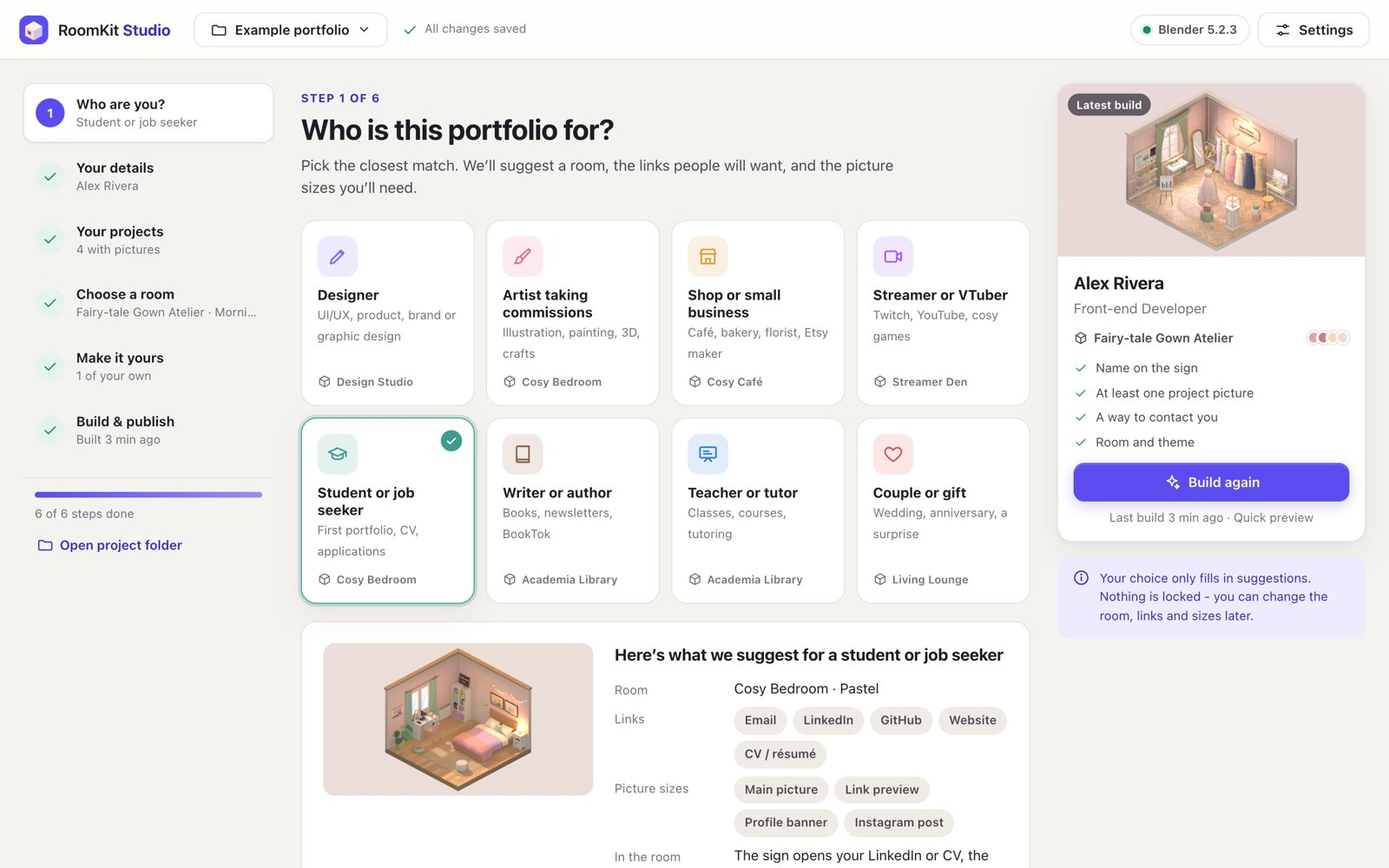
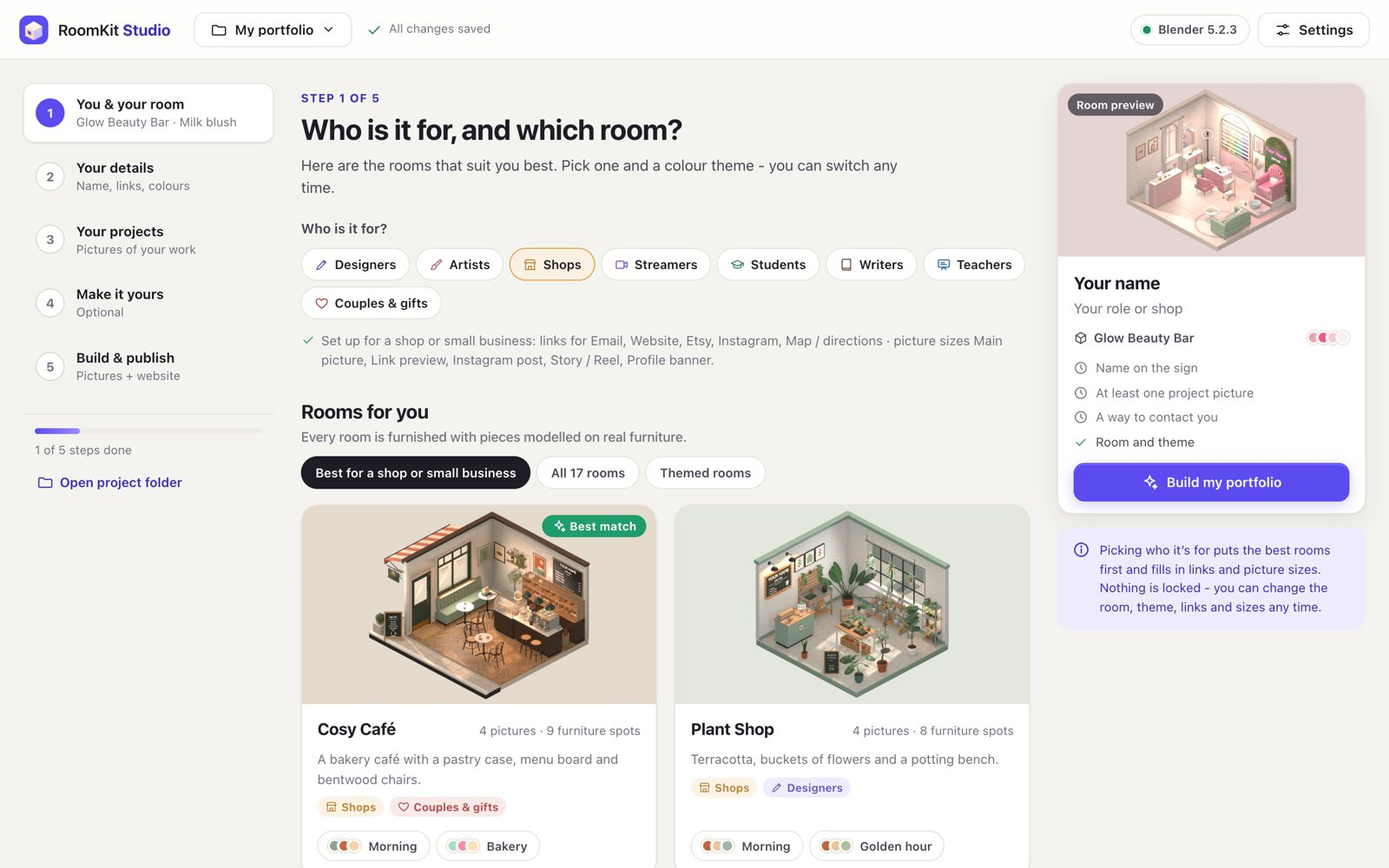
Studio: choose the room in step 1 with who it's for (5 steps instead of 6)
Picking who the portfolio is for now shows the rooms that suit them right
below, with the best match marked, so the room is no longer chosen twice.
Old saved links to the removed room step open step 1.

diff --git a/tools/studio/app.js b/tools/studio/app.js
@@ -12,10 +12,9 @@
   const MODEL_EXT = ['glb', 'gltf', 'obj', 'fbx', 'stl'];
 
   const STEPS = [
-    { id: 'persona', title: 'Who are you?', icon: 'user' },
+    { id: 'persona', title: 'You & your room', icon: 'user' },
     { id: 'profile', title: 'Your details', icon: 'idcard' },
     { id: 'projects', title: 'Your projects', icon: 'image' },
-    { id: 'room', title: 'Choose a room', icon: 'cube' },
     { id: 'furnish', title: 'Make it yours', icon: 'sofa' },
     { id: 'build', title: 'Build & publish', icon: 'sparkles' },
   ];
@@ -203,13 +202,16 @@
   function stepState(id) {
     const p = S.profile, st = S.studio;
     switch (id) {
-      case 'persona': return st.persona ? { done: true, sub: persona()?.label || '' } : { done: false, sub: 'Pick what fits you' };
+      case 'persona': {
+        const r = room();
+        if (r) return { done: true, sub: `${r.name} · ${theme(r)?.label || ''}` };
+        return { done: false, sub: st.persona ? `${persona()?.label || ''} · pick a room` : 'Who it’s for and your room' };
+      }
       case 'profile': return p.name ? { done: nameCheck().level !== 'error', sub: p.name } : { done: false, sub: 'Name, links, colours' };
       case 'projects': {
         const n = (p.projects || []).filter((x) => x.image).length;
         return { done: n > 0, sub: n ? `${n} with pictures` : 'Pictures of your work' };
       }
-      case 'room': { const r = room(); return r ? { done: true, sub: `${r.name} · ${theme(r)?.label || ''}` } : { done: false, sub: 'Pick your room' }; }
       case 'furnish': { const n = (st.swaps || []).length; return { done: n > 0, optional: true, sub: n ? `${n} of your own` : 'Optional' }; }
       case 'build': return st.last_build ? { done: true, sub: `Built ${ago(st.last_build.when)}` } : { done: false, sub: 'Pictures + website' };
       default: return { done: false, sub: '' };
@@ -297,7 +299,7 @@
       S.rooms = r.rooms || [];
       S.roomsScanning = r.scanning;
       if (before !== JSON.stringify(S.rooms.map((x) => [x.id, x.source, x.thumb])) && S.pid) {
-        if (['room', 'furnish', 'persona'].includes(S.step)) renderMain();
+        if (['furnish', 'persona'].includes(S.step)) renderMain();
         renderSide();
       }
       if (r.scanning) setTimeout(pollRooms, 2500);
@@ -315,7 +317,8 @@
     if (!S.studio.room && S.profile.room) S.studio.room = S.profile.room;
     if (!S.studio.theme && S.profile.theme) S.studio.theme = S.profile.theme;
     S.outputs = data.outputs || {};
-    const want = step || S.studio.step;
+    let want = step || S.studio.step;
+    if (want === 'room') want = 'persona';                          // the old separate room step now lives in step 1
     S.step = STEPS.some((s) => s.id === want) ? want : 'persona';
     S.job = null;
     safeStorage('set', 'roomkit.project', pid);
@@ -485,10 +488,9 @@
   function tipFor(step) {
     const per = persona();
     return {
-      persona: 'Your choice only fills in suggestions. Nothing is locked - you can change the room, links and sizes later.',
+      persona: 'Picking who it’s for puts the best rooms first and fills in links and picture sizes. Nothing is locked - you can change the room, theme, links and sizes any time.',
       profile: 'Keep your name short so it reads well on the sign. Visitors can click the sign, mug and shelves to reach your links.',
       projects: 'Wide pictures (16:10, like a laptop screen) look best. The first project goes on the main screen.',
-      room: per ? per.objects : 'Click a colour theme to see the room in different colours.',
       furnish: 'A photo of your own chair, plant or pet makes the room feel like yours. Photos taken straight on, on a plain background, work best.',
       build: 'Start with a Quick preview to check everything, then make the Final quality version to share.',
     }[step] || '';
@@ -519,6 +521,7 @@
   window.addEventListener('hashchange', onHashChange);           // also fires for Back / Forward between steps
 
   function go(step, fromHistory) {
+    if (step === 'room') step = 'persona';
     if (!STEPS.some((s) => s.id === step)) return;
     S.step = step;
     S.studio.step = step;
@@ -542,51 +545,48 @@
   function renderMain() {
     const el = $('#main');
     if (!el) return;
-    const fn = { persona: viewPersona, profile: viewProfile, projects: viewProjects, room: viewRoom, furnish: viewFurnish, build: viewBuild }[S.step];
+    const fn = { persona: viewPersona, profile: viewProfile, projects: viewProjects, furnish: viewFurnish, build: viewBuild }[S.step];
     fn(el);
     bindNav(el);
   }
+
+  const stepNo = (id) => `Step ${STEPS.findIndex((s) => s.id === id) + 1} of ${STEPS.length}`;
 
   function header(kicker, title, lead) {
     return `<header class="view-head"><p class="kicker">${esc(kicker)}</p><h1>${esc(title)}</h1>${lead ? `<p class="lead">${lead}</p>` : ''}</header>`;
   }
 
-  // ------------------------------------------------------------------ step 1: persona
+  // ------------------------------------------------------------------ step 1: who it's for + room
+  // One step: pick who the portfolio is for, and the rooms that suit them appear right below.
   function viewPersona(el) {
     const cur = S.studio.persona;
-    const cards = S.personas.map((p) => {
-      const sug = firstRoom(p);
-      return `<button class="persona ${cur === p.id ? 'selected' : ''}" data-persona="${p.id}" aria-pressed="${cur === p.id}" style="--tint:${esc(p.tint)}">
-        <span class="p-icon">${icon(p.icon)}</span>
-        <span class="p-text"><strong>${esc(p.label)}</strong><small>${esc(p.blurb)}</small></span>
-        ${sug ? `<span class="p-room">${icon('cube', 'sm')}${esc(sug.room.name)}</span>` : ''}
-        <span class="p-check">${icon('check')}</span>
-      </button>`;
-    }).join('');
     const per = persona();
-    let plan = '';
-    if (per) {
-      const sug = firstRoom(per);
-      const img = sug ? themeImage(sug.theme) : '';
-      plan = `<section class="card plan">
-        ${img ? `<img class="plan-img" src="${esc(img)}" alt="">` : ''}
-        <div class="plan-body">
-          <h2>Here’s what we suggest for a ${esc(per.label.toLowerCase())}</h2>
-          <dl>
-            <dt>Room</dt><dd>${sug ? `${esc(sug.room.name)} · ${esc(sug.theme ? sug.theme.label : '')}` : 'Any room'}</dd>
-            <dt>Links</dt><dd class="chips">${per.links.map((l) => `<span class="chip">${esc((S.linkTypes[l] || {}).label || l)}</span>`).join('')}</dd>
-            <dt>Picture sizes</dt><dd class="chips">${per.exports.map((x) => `<span class="chip">${esc((S.exportsInfo[x] || {}).label || x)}</span>`).join('')}</dd>
-            <dt>In the room</dt><dd>${esc(per.objects)}</dd>
-          </dl>
-          <p class="muted small">${S.studio.touched.room ? 'You already chose a room, so we’ll keep it.' : 'You can change all of this in the next steps.'}</p>
-        </div>
-      </section>`;
-    }
-    el.innerHTML = header('Step 1 of 6', 'Who is this portfolio for?', 'Pick the closest match. We’ll suggest a room, the links people will want, and the picture sizes you’ll need.')
-      + `<div class="persona-grid" role="list">${cards}</div>${plan}` + navButtons('', 'profile', per ? 'Use these suggestions' : 'Skip for now');
-    $$('[data-persona]', el).forEach((b) => b.onclick = () => { applyPersona(b.dataset.persona); viewPersona(el); bindNav(el); });
-    const next = $('[data-go="profile"]', el);
-    if (next) next.onclick = () => go('profile');
+    const who = per
+      ? `<div class="who-row"><span class="who-label">Who is it for?</span><div class="persona-chips" role="group" aria-label="Who is this portfolio for">${S.personas.map((p) =>
+          `<button class="pchip ${cur === p.id ? 'on' : ''}" data-persona="${p.id}" aria-pressed="${cur === p.id}" style="--tint:${esc(p.tint)}">${icon(p.icon, 'sm')}${esc(shortLabel(p))}</button>`).join('')}</div></div>
+        <p class="persona-extras">${icon('check', 'sm')}Set up for a ${esc(per.label.toLowerCase())}: links for ${per.links.map((l) => esc((S.linkTypes[l] || {}).label || l)).join(', ')} · picture sizes ${per.exports.map((x) => esc((S.exportsInfo[x] || {}).label || x)).join(', ')}.</p>`
+      : `<div class="persona-grid" role="list">${S.personas.map((p) => {
+          const sug = firstRoom(p);
+          return `<button class="persona" data-persona="${p.id}" aria-pressed="false" style="--tint:${esc(p.tint)}">
+            <span class="p-icon">${icon(p.icon)}</span>
+            <span class="p-text"><strong>${esc(p.label)}</strong><small>${esc(p.blurb)}</small></span>
+            ${sug ? `<span class="p-room">${icon('cube', 'sm')}${esc(sug.room.name)}</span>` : ''}
+            <span class="p-check">${icon('check')}</span>
+          </button>`;
+        }).join('')}</div>`;
+    el.innerHTML = header(stepNo('persona'), 'Who is it for, and which room?',
+      per ? 'Here are the rooms that suit you best. Pick one and a colour theme - you can switch any time.'
+          : 'Pick the closest match and we’ll show the rooms that suit you best, with the right links and picture sizes. Or scroll down and choose any room.')
+      + who + `<section id="room-pick" class="room-pick" aria-label="Choose your room"></section>`
+      + navButtons('', 'profile', room() ? 'Continue' : 'Skip for now');
+    $$('[data-persona]', el).forEach((b) => b.onclick = () => {
+      applyPersona(b.dataset.persona); S.roomFilter = 'for-you';
+      viewPersona(el); bindNav(el); renderSide();
+      const box = $('#room-pick', el);
+      if (box && !per) box.scrollIntoView({ behavior: matchMedia('(prefers-reduced-motion: reduce)').matches ? 'auto' : 'smooth', block: 'start' });
+    });
+    if (!per && S.roomFilter === 'for-you') S.roomFilter = 'all';
+    renderRoomPicker($('#room-pick', el), el);
   }
 
   function firstRoom(p) {
@@ -619,7 +619,7 @@
     const t = theme();
     const brand = S.profile.brand_color || S.studio.brand_color_suggest || (t && t.colors.accent_1) || '#5B4CF0';
     const roomColors = t ? ['main', 'accent_1', 'accent_2', 'accent_3'].map((k) => t.colors[k]).filter(Boolean) : [];
-    el.innerHTML = header('Step 2 of 6', 'Your details', 'This goes on the sign in your room and at the top of your website.') + `
+    el.innerHTML = header(stepNo('profile'), 'Your details', 'This goes on the sign in your room and at the top of your website.') + `
       <section class="card form-card">
         <h2 class="card-title">${icon('idcard')}The basics</h2>
         <div class="grid2">
@@ -800,7 +800,7 @@
     const per = persona();
     const r = room();
     const spots = r && r.hooks ? r.hooks.pictures : 0;
-    el.innerHTML = header('Step 3 of 6', 'Your projects', 'Add pictures of your work. They appear on the screens, frames and posters in your room, and as cards on your website.') + `
+    el.innerHTML = header(stepNo('projects'), 'Your projects', 'Add pictures of your work. They appear on the screens, frames and posters in your room, and as cards on your website.') + `
       <div class="proj-hint">${icon('info')}<span>${spots ? `The ${esc(r.name)} has <b>${spots} picture spots</b>. ` : ''}Add 3–6 projects for the best look. Drag the handle to change the order - the first one goes on the main screen.</span></div>
       <ol class="projects" id="projects"></ol>
       <div class="dropzone big" id="proj-drop" tabindex="0" role="button" aria-label="Add projects: drop pictures here or press to choose files">
@@ -809,7 +809,7 @@
       </div>
       <div class="inline-actions"><button class="btn ghost" id="add-empty">${icon('plus')}Add a project without a picture</button></div>
       ${per ? `<section class="card ideas"><h2 class="card-title">${icon('sparkles')}Not sure what to show?</h2><p class="muted">Ideas for a ${esc(per.label.toLowerCase())}:</p><ul>${per.project_ideas.map((x) => `<li>${esc(x)}</li>`).join('')}</ul></section>` : ''}
-      ${navButtons('profile', 'room')}`;
+      ${navButtons('profile', 'furnish')}`;
     renderProjectList();
     const drop = $('#proj-drop', el), files = $('#proj-files', el);
     drop.onclick = () => files.click();
@@ -941,10 +941,11 @@
     const btn = $(`.proj-card[data-i="${to}"] .p-title`); if (btn) btn.focus();
   }
 
-  // ------------------------------------------------------------------ step 4: room gallery
-  function viewRoom(el) {
+  // ------------------------------------------------------------------ room gallery (part of step 1)
+  function renderRoomPicker(box, page) {
+    if (!box) return;
     const per = persona();
-    const filters = [['for-you', per ? `For a ${per.label.toLowerCase()}` : 'Suggested'], ['all', 'All rooms'], ['themed', 'Themed rooms']];
+    const filters = (per ? [['for-you', `Best for a ${per.label.toLowerCase()}`]] : []).concat([['all', `All ${S.rooms.length} rooms`], ['themed', 'Themed rooms']]);
     let list = S.rooms.slice();
     if (S.roomFilter === 'themed') list = list.filter((r) => r.themed);
     if (S.roomFilter === 'for-you') {
@@ -956,6 +957,7 @@
     }
     const cur = S.studio.room;
     if (cur && !list.some((r) => r.id === cur) && room(cur)) list.unshift(room(cur));
+    const best = per && S.roomFilter === 'for-you' ? (firstRoom(per) || {}).room : null;
     const cards = list.map((r) => {
       const sel = r.id === cur;
       const t = sel ? theme(r) : (r.themes.find((x) => x.default) || r.themes[0]);
@@ -964,7 +966,7 @@
         <button class="rc-pick" data-pick="${r.id}" aria-pressed="${sel}" aria-label="Choose the ${esc(r.name)}">
           <span class="rc-img" style="${t ? `background:linear-gradient(135deg, ${esc(t.colors.wall || '#eee')}, ${esc(t.colors.floor || '#ddd')})` : ''}">
             ${img ? `<img src="${esc(img)}" alt="" loading="lazy">` : `<span class="rc-soon">${icon('cube')}Preview coming soon</span>`}
-            ${r.themed ? '<span class="badge new">New · Themed</span>' : ''}
+            ${best && best.id === r.id && !sel ? `<span class="badge best">${icon('sparkles', 'sm')}Best match</span>` : r.themed ? '<span class="badge new">New · Themed</span>' : ''}
             ${sel ? `<span class="badge chosen">${icon('check', 'sm')}Your room</span>` : ''}
           </span>
         </button>
@@ -980,14 +982,14 @@
       </article>`;
     }).join('');
     const r = room();
-    el.innerHTML = header('Step 4 of 6', 'Choose your room', 'Every room is furnished with pieces modelled on real furniture. Pick one, then a colour theme.') + `
+    box.innerHTML = `<h2 class="pick-h">${per ? 'Rooms for you' : 'Choose your room'}<small>Every room is furnished with pieces modelled on real furniture.</small></h2>
       <div class="filters" role="tablist">${filters.map(([id, label]) => `<button role="tab" class="filter ${S.roomFilter === id ? 'on' : ''}" aria-selected="${S.roomFilter === id}" data-filter="${id}">${esc(label)}</button>`).join('')}
         ${S.roomsScanning ? `<span class="scan">${icon('refresh', 'sm spin')}Checking rooms…</span>` : ''}</div>
       <div class="room-grid">${cards || '<p class="muted">No rooms found in templates/.</p>'}</div>
       ${r ? `<section class="card seed-card"><div><h2 class="card-title">${icon('dice')}Shuffle the little things</h2><p class="muted">Books, bottles, plants and props are arranged differently for each number, so your room won’t look like anyone else’s.</p></div>
         <div class="seed-ctl"><button class="icon-btn" id="seed-dn" aria-label="Previous arrangement">${icon('left')}</button><output id="seed-val" aria-live="polite">Arrangement #${esc(S.studio.seed || 1)}</output><button class="icon-btn" id="seed-up" aria-label="Next arrangement">${icon('right')}</button><button class="btn ghost" id="seed-rand">${icon('dice')}Surprise me</button></div></section>` : ''}
-      ${navButtons('projects', 'furnish')}`;
-    $$('[data-filter]', el).forEach((b) => b.onclick = () => { S.roomFilter = b.dataset.filter; viewRoom(el); bindNav(el); });
+`;
+    $$('[data-filter]', box).forEach((b) => b.onclick = () => { S.roomFilter = b.dataset.filter; renderRoomPicker(box, page); });
     const pick = (rid, tid) => {
       const rr = room(rid);
       const changedRoom = S.studio.room !== rid;
@@ -999,10 +1001,12 @@
         if (keep.length !== S.studio.swaps.length) toast(`${S.studio.swaps.length - keep.length} furniture swap(s) don’t fit this room and were set aside.`, 'info');
         S.studio.swaps = keep;
       }
-      changed(); viewRoom(el); bindNav(el);
+      changed(); renderRoomPicker(box, page); renderSide();
+      const next = page && $('.step-nav [data-go="profile"]', page);
+      if (next) next.innerHTML = `Continue${icon('right')}`;
     };
-    $$('[data-pick]', el).forEach((b) => b.onclick = () => pick(b.dataset.pick, S.studio.room === b.dataset.pick ? S.studio.theme : ''));
-    $$('[data-theme]', el).forEach((b) => b.onclick = () => pick(b.dataset.room, b.dataset.theme));
+    $$('[data-pick]', box).forEach((b) => b.onclick = () => pick(b.dataset.pick, S.studio.room === b.dataset.pick ? S.studio.theme : ''));
+    $$('[data-theme]', box).forEach((b) => b.onclick = () => pick(b.dataset.room, b.dataset.theme));
     const setSeed = (n) => { S.studio.seed = Math.max(1, Math.min(9999, n)); $('#seed-val').textContent = `Arrangement #${S.studio.seed}`; changed(); };
     if (r) {
       $('#seed-dn').onclick = () => setSeed((S.studio.seed || 1) - 1);
@@ -1016,14 +1020,14 @@
   function viewFurnish(el) {
     const r = room();
     if (!r) {
-      el.innerHTML = header('Step 5 of 6', 'Make it yours', '') + `<div class="empty">${icon('cube')}<h2>Choose a room first</h2><p>Then you can swap its furniture for your own.</p><button class="btn primary" data-go="room">Choose a room</button></div>`;
+      el.innerHTML = header(stepNo('furnish'), 'Make it yours', '') + `<div class="empty">${icon('cube')}<h2>Choose a room first</h2><p>Then you can swap its furniture for your own.</p><button class="btn primary" data-go="persona">Choose a room</button></div>`;
       return;
     }
     const keys = S.status.keys || {};
     const anyKey = keys.meshy?.set || keys.fal?.set || keys.hf?.set;
     const feats = S.status.features || {};
     const t = theme(r);
-    el.innerHTML = header('Step 5 of 6', 'Make it yours', 'Swap any piece of furniture for your own - drop a photo of your chair, plant or pet, or a 3D model. This step is optional.') + `
+    el.innerHTML = header(stepNo('furnish'), 'Make it yours', 'Swap any piece of furniture for your own - drop a photo of your chair, plant or pet, or a 3D model. This step is optional.') + `
       <div class="furnish-top card">
         ${themeImage(t) ? `<img src="${esc(themeImage(t))}" alt="">` : ''}
         <div>
@@ -1038,7 +1042,7 @@
         </div>
       </div>
       <ul class="slots" id="slots">${r.slots.map((s) => slotRow(s)).join('')}</ul>
-      ${navButtons('room', 'build')}`;
+      ${navButtons('projects', 'build')}`;
     $('#keys-btn', el).onclick = () => openSettings('keys');
     bindSlots(el, r);
   }
@@ -1186,7 +1190,7 @@
     if (S.job && (S.job.state === 'running' || S.job.state === 'error' || S.job.state === 'cancelled')) return viewJob(el);
     if (b.state !== 'ok') {
       const prev = S.studio.last_build && S.outputs.index ? resultsHtml(S.studio.last_build) : '';
-      el.innerHTML = header('Step 6 of 6', 'Build & publish', '') + blenderCard(b) + prev + navButtons('furnish', '');
+      el.innerHTML = header(stepNo('build'), 'Build & publish', '') + blenderCard(b) + prev + navButtons('furnish', '');
       bindBlenderCard(el);
       if (prev) bindResults(el);
       return;
@@ -1204,7 +1208,7 @@
         <span class="exp-box" style="aspect-ratio:${x.size.replace(/\s/g, '').replace('×', '/')}"></span>
         <span class="exp-text"><strong>${esc(x.label)}</strong><small>${esc(x.size)}</small><small class="use">${!supported ? '<span class="soon">Next kit update</span>' : esc(x.use)}</small></span></label>`;
     }).join('');
-    el.innerHTML = header('Step 6 of 6', 'Build & publish', 'RoomKit opens Blender in the background, puts you in the room and takes the pictures. You can keep working while it runs.') + `
+    el.innerHTML = header(stepNo('build'), 'Build & publish', 'RoomKit opens Blender in the background, puts you in the room and takes the pictures. You can keep working while it runs.') + `
       ${lb ? resultsHtml(lb) : ''}
       <section class="card build-card" id="build-card">
         <h2 class="card-title">${icon('sparkles')}${lb ? 'Build again' : 'Build settings'}</h2>
@@ -1244,7 +1248,7 @@
     const nc = nameCheck();
     if (nc.level === 'error') out.push({ level: 'error', msg: nc.msg, step: 'profile' });
     else if (nc.level === 'warn') out.push({ level: 'warn', msg: 'Your name will be made a little smaller to fit the sign.', step: 'profile' });
-    if (!room()) out.push({ level: 'error', msg: 'Choose a room first.', step: 'room' });
+    if (!room()) out.push({ level: 'error', msg: 'Choose a room first.', step: 'persona' });
     const pics = (p.projects || []).filter((x) => x.image).length;
     if (!pics) out.push({ level: 'warn', msg: 'No project pictures yet - the room will show its own sample pictures.', step: 'projects' });
     if (!Object.keys(p.links || {}).length) out.push({ level: 'warn', msg: 'No links yet, so visitors can’t reach you.', step: 'profile' });
@@ -1325,7 +1329,7 @@
     const j = S.job;
     if (j.state === 'error' || j.state === 'cancelled') {
       const err = j.error || { title: 'Build cancelled', message: 'Nothing was changed. Your previous results are still there.', hint: '' };
-      el.innerHTML = header('Step 6 of 6', 'Build & publish', '') + `
+      el.innerHTML = header(stepNo('build'), 'Build & publish', '') + `
         <section class="card job-card ${j.state}">
           <div class="err-head">${icon(j.state === 'error' ? 'alert' : 'info')}<div><h2>${esc(err.title)}</h2><p>${esc(err.message)}</p>${err.hint ? `<p class="hint">${esc(err.hint)}</p>` : ''}</div></div>
           ${jobSteps(j)}
@@ -1337,7 +1341,7 @@
       bindLogToggle();
       return;
     }
-    el.innerHTML = header('Step 6 of 6', 'Building your portfolio', 'You can keep editing other steps while this runs. We’ll play a little sound when it’s done.') + `
+    el.innerHTML = header(stepNo('build'), 'Building your portfolio', 'You can keep editing other steps while this runs. We’ll play a little sound when it’s done.') + `
       <section class="card job-card" aria-busy="true">
         <div class="job-top"><div><p class="big-pct" id="pct">0%</p><p class="muted" id="eta">Starting Blender…</p></div>
           <button class="btn ghost" id="cancel">${icon('stop')}Cancel</button></div>

diff --git a/tools/studio/style.css b/tools/studio/style.css
@@ -335,6 +335,21 @@ input::placeholder, textarea::placeholder { color: color-mix(in srgb, var(--mute
 .rc-soon .ic { width: 32px; height: 32px; }
 .badge.new { left: auto; right: 10px; top: 10px; background: linear-gradient(90deg, #E86A92, #9B5CF6); }
 .badge.chosen { top: 10px; left: 10px; background: var(--primary); font-size: 12px; padding: 4px 10px; }
+.badge.best { left: auto; right: 10px; top: 10px; background: #1F9D6B; font-size: 12px; padding: 4px 10px; }
+
+/* step 1: who it's for + room */
+.who-row { display: flex; align-items: center; gap: 12px; flex-wrap: wrap; }
+.who-label { font: 650 14px var(--font); color: var(--ink-2); }
+.persona-chips { display: flex; flex-wrap: wrap; gap: 6px; }
+.pchip { display: inline-flex; align-items: center; gap: 6px; height: 34px; padding: 0 13px; border-radius: 99px; border: 1.5px solid var(--line); background: var(--surface); color: var(--ink); font: 600 13px var(--font); cursor: pointer; transition: border-color .15s, background .15s; }
+.pchip .ic { width: 15px; height: 15px; color: color-mix(in srgb, var(--tint) 80%, var(--ink)); }
+.pchip:hover { border-color: color-mix(in srgb, var(--tint) 55%, var(--line)); }
+.pchip.on { border-color: var(--tint); background: color-mix(in srgb, var(--tint) 14%, var(--surface)); }
+.persona-extras { display: flex; gap: 6px; align-items: flex-start; margin: 12px 0 0; color: var(--muted); font-size: 13.5px; }
+.persona-extras .ic { flex: none; margin-top: 2px; color: #1F9D6B; }
+.room-pick { margin-top: 28px; scroll-margin-top: 80px; }
+.pick-h { display: flex; flex-direction: column; gap: 2px; font-size: 20px; margin: 0 0 12px; }
+.pick-h small { font: 500 14px var(--font); color: var(--muted); }
 .rc-body { padding: 14px 16px 16px; display: flex; flex-direction: column; gap: 8px; flex: 1; }
 .rc-head { display: flex; justify-content: space-between; align-items: baseline; gap: 8px; }
 .rc-head h3 { font-size: 17px; }

diff --git a/STUDIO.md b/STUDIO.md
@@ -18,17 +18,16 @@ RoomKit Studio is a friendly builder that opens in your web browser. You fill in
 
 Your browser opens RoomKit Studio. Keep the small black window open while you work. Close that window when you're finished.
 
-## Make your portfolio in six steps
-1. **Who are you?** Pick the closest match: designer, artist, shop, streamer, student, writer, teacher, or couple/gift. Studio suggests a room, the right links and picture sizes. Nothing is locked.
+## Make your portfolio in five steps
+1. **You & your room.** Pick who it's for: designer, artist, shop, streamer, student, writer, teacher, or couple/gift. The rooms that suit you appear right below, with the best match marked, and Studio fills in the right links and picture sizes. Click a room, then a colour theme. Prefer to browse? Open **All 17 rooms** or **Themed rooms**. **Shuffle the little things** rearranges books and props, so your room looks like no one else's. Nothing is locked.
 2. **Your details.** Add your name, what you do, one line about you, and your links (email, website, Behance, Instagram, Etsy, Ko-fi, Twitch and more). Studio tells you straight away if your name is too long for the room's sign. You can turn on your own brand colour if you like.
 3. **Your projects.** Drag pictures of your work onto the page, then give each one a title, a sentence and a link. Drag the handle to change the order. The first project goes on the main screen. Wide pictures (16:10) look best.
-4. **Choose a room.** Browse every room and click a colour theme to see it. **Shuffle the little things** rearranges books and props, so your room looks like no one else's.
-5. **Make it yours** (optional). Swap any piece of furniture for your own. Drop in a photo of your chair, plant or pet, or a 3D model (.glb, .obj, .fbx or .stl). For a photo, choose how Studio builds it:
+4. **Make it yours** (optional). Swap any piece of furniture for your own. Drop in a photo of your chair, plant or pet, or a 3D model (.glb, .obj, .fbx or .stl). For a photo, choose how Studio builds it:
    - **AI 3D model** (best look): needs a key from an AI service. Paste it under **Settings**.
    - **Quick blocky version**: free and instant, made from simple shapes in your photo's colours.
 
    You can also turn the piece, resize it, and choose whether it matches the room's colours.
-6. **Build & publish.**
+5. **Build & publish.**
    1. Start with a **Quick preview**, about a minute, to check everything. Then make **Final quality** for sharing.
    2. Leave **Include the 3D website** on if you want visitors to turn and click your room.
    3. Tick the picture sizes you need: link preview, Instagram, LinkedIn banner, Behance, Dribbble, story, or 4K stream background.

diff --git a/README.md b/README.md
@@ -7,7 +7,7 @@ Turn your work into a cosy 3D room that people remember. You get a 3D website vi
 ## The easy way (no typing)
 1. Install **Blender 4.2 or newer** (free): [blender.org/download](https://www.blender.org/download/)
 2. Double-click **Start.command** (Mac), **Start.bat** (Windows) or **start.sh** (Linux).
-3. RoomKit Studio opens in your browser. Pick who you are, fill in your details, drag in your project pictures, choose one of 17 rooms, and click **Build my portfolio**.
+3. RoomKit Studio opens in your browser. Pick who it's for and one of the 17 rooms it suggests, fill in your details, drag in your project pictures, and click **Build my portfolio**.
 
 Want your own chair, plant or pet in the room? Drop a photo onto it in **Make it yours**. The kit can turn it into a 3D model with an AI service (Meshy, fal.ai or a free Hugging Face option), or build a quick blocky version for free.
 
